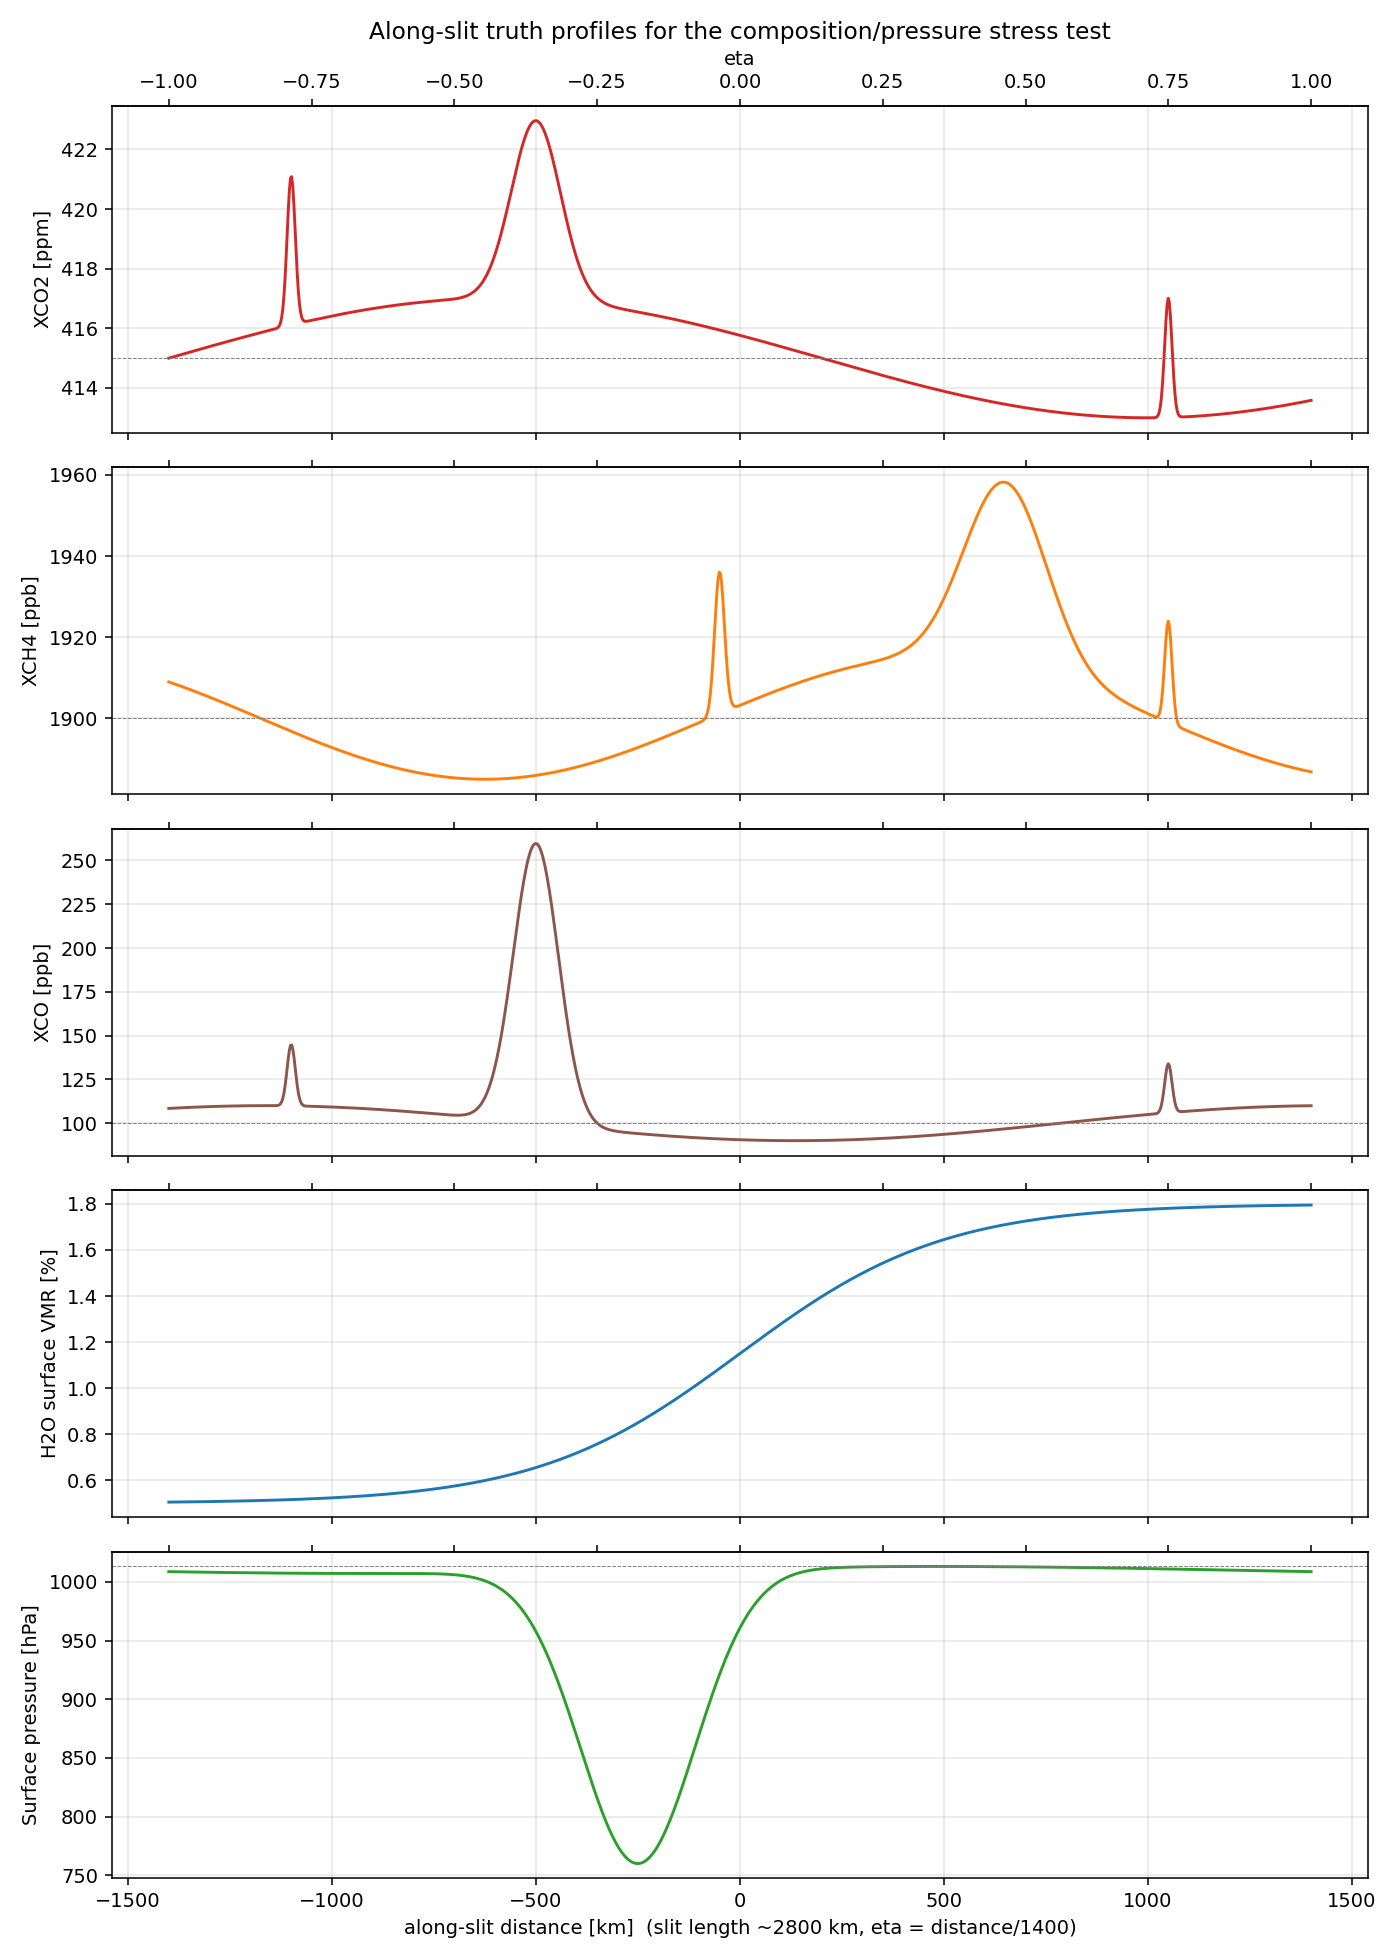
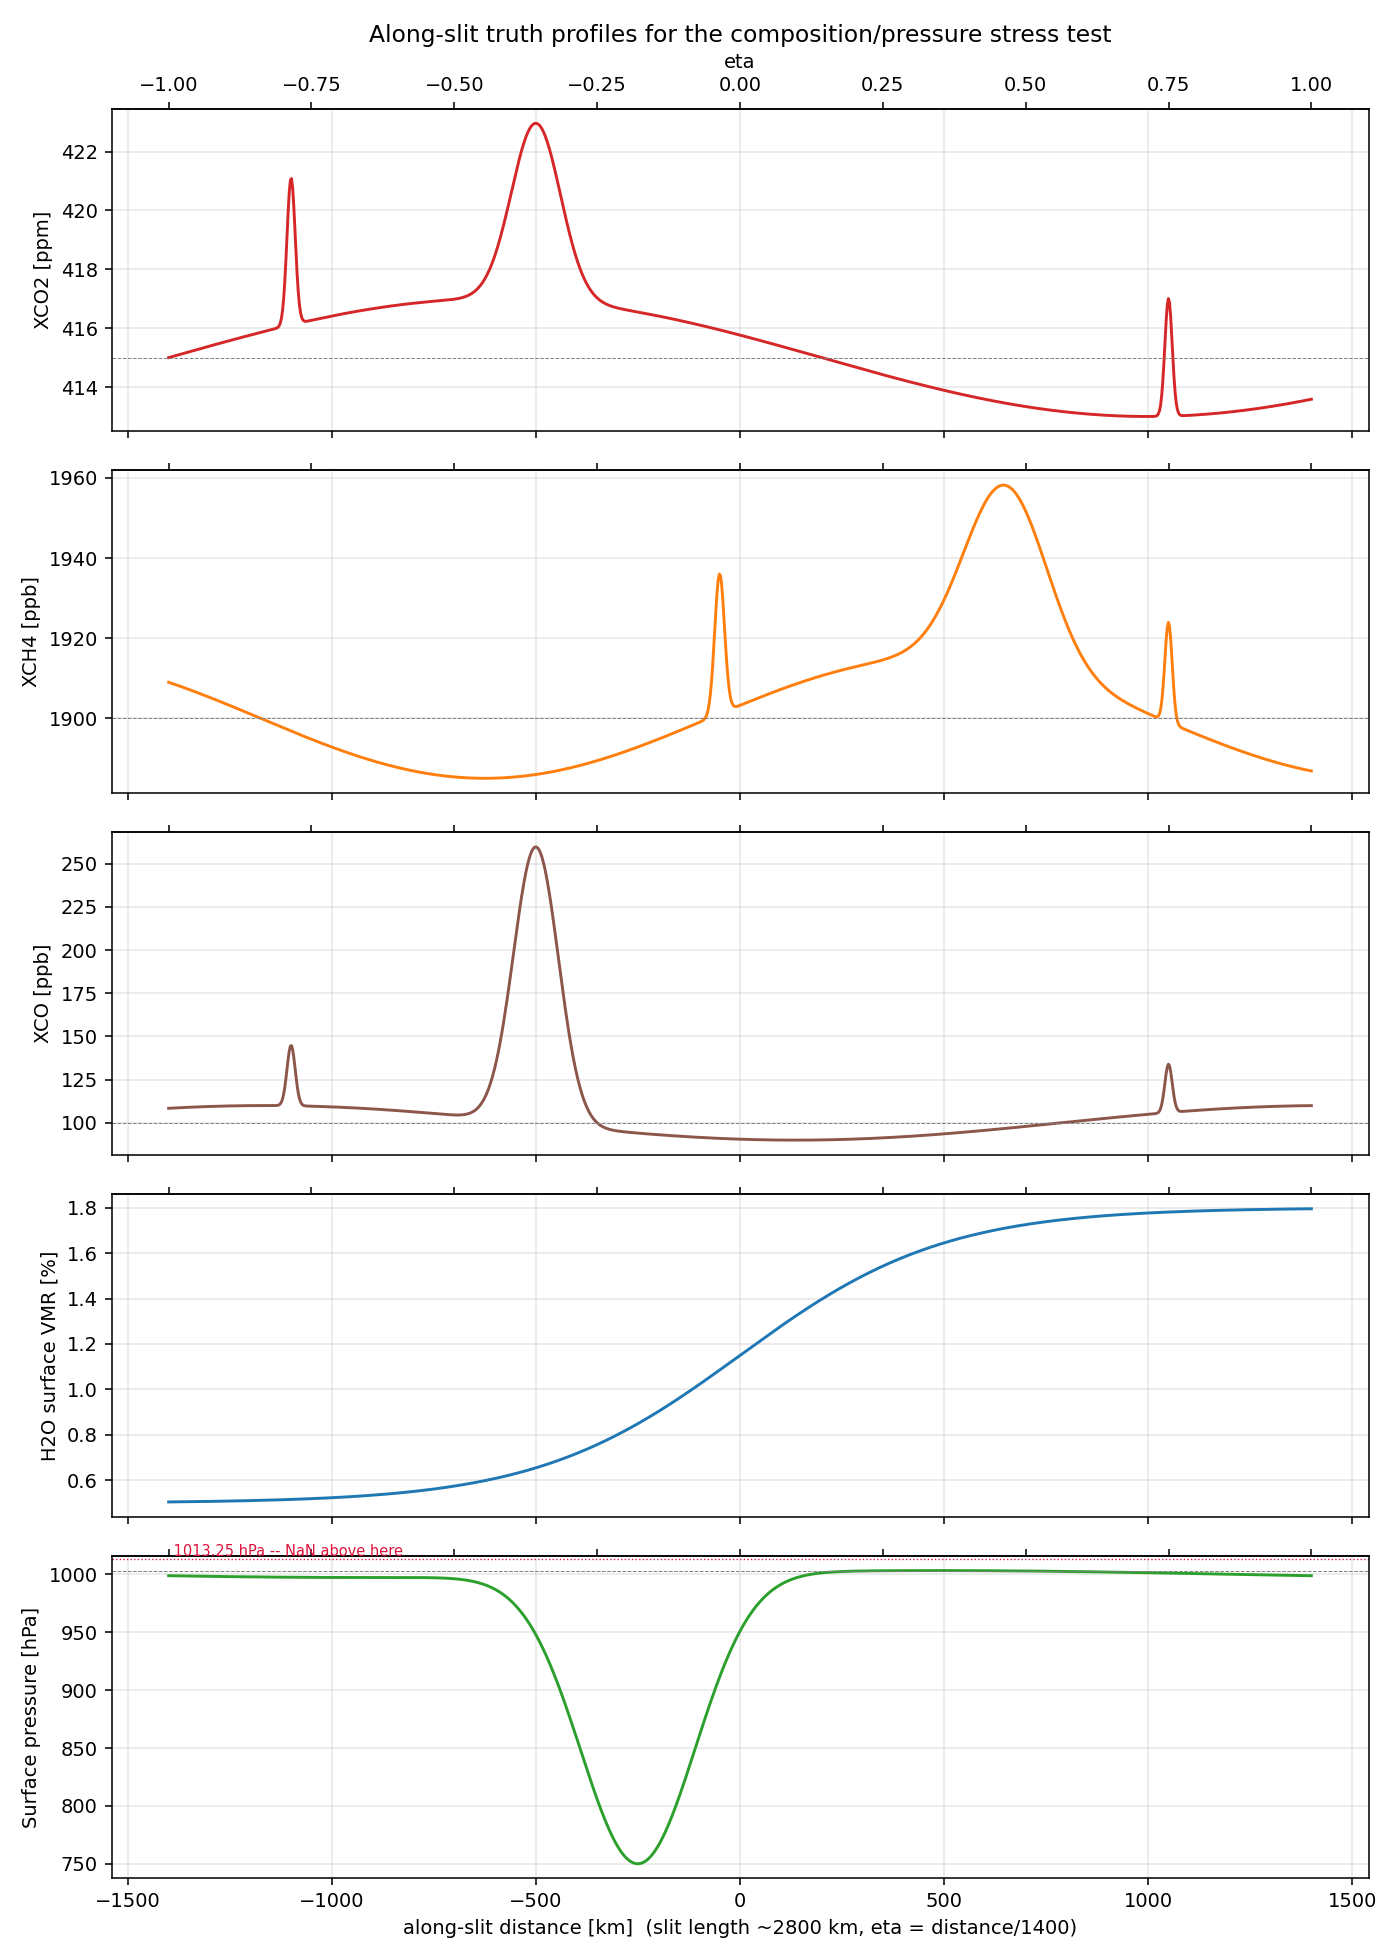
scene: hold truth p_surface 10 hPa below the standard-atmosphere ceiling
pressure_to_alt_std_atm returns NaN above sea level (1013.25 hPa). The truth
field was held 0.1 hPa under that, which kept the TRUTH valid but left a
RETRIEVED p_surface no room: with kind='scale', gauss_newton_state's
finite-difference probe alone is p*1.001 ~ +1.0 hPa, 10x the margin, so every
FPA2 window spanning the eastern rise (rows 583-844, 26% of the slit) died
with 'cannot convert float NaN to integer' in both free-co2-p sweeps.

New P_HEADROOM_HPA = 10.0 -- 10x the FD probe, and room for a genuine ~1%
excursion on top. Verified on rows 670-700, the worst previously-failing
window: now solves in 98s, and the converged solution moves p by only
+0.006 hPa, so the ceiling was never the solution's constraint, only the
probe's.

This changes the truth scene, so every results/*.pkl and the band cache
predate it. Cache regenerated; the old one is kept as
band_image_fpa2.npy.stale-pre-headroom.

diff --git a/geocarb_gert/along_slit_scene.py b/geocarb_gert/along_slit_scene.py
@@ -58,6 +58,26 @@ XCO_BG_PPB = 100.0
 H2O_BG_VMR = 1.0e-2      # surface VMR, fraction
 P_BG_HPA = 1013.25
 
+#: How far below the standard-atmosphere ceiling (`P_BG_HPA`, = sea level)
+#: the truth surface-pressure field is held. `pressure_to_alt_std_atm`
+#: returns NaN above that pressure, so this is the room a RETRIEVAL has to
+#: move surface pressure upward before the forward model goes NaN.
+#:
+#: Raised from 0.1 to 10.0 hPa (user, 2026-08-18). 0.1 hPa was enough to keep
+#: the TRUTH scene valid, which was all it had to do while p_surface was
+#: always frozen -- but it is not enough to RETRIEVE p_surface. With
+#: `kind="scale"`, `gauss_newton_state`'s finite-difference probe alone is
+#: `p * (1 + 1e-3)` ~ +1.0 hPa, an order of magnitude over that margin, so
+#: every window spanning the eastern rise (rows 583-844, 26% of FPA2's slit)
+#: died with `cannot convert float NaN to integer` in the first free-p sweep.
+#: 10 hPa is ~1% of background: 10x the FD probe, and enough room for a
+#: genuine ~1% retrieval excursion on top of it.
+#:
+#: Note the sign convention: a LARGER headroom means LOWER surface pressure,
+#: i.e. the surface sits higher in altitude, further from the sea-level floor
+#: of the standard atmosphere.
+P_HEADROOM_HPA = 10.0
+
 # Small, localized "hot spots" -- point-source-scale features, deliberately
 # narrower than the along-slit ground sample distance (~2.7 km/row for the
 # ~2800 km slit over 1024 rows) times a handful of rows, i.e. only a few
@@ -234,9 +254,13 @@ def p_surface_hpa(x_km):
     # p <= standard sea level (1013.25 hPa) -- it returns NaN above that
     # (found 2026-07-24: a symmetric +/-3 hPa sinusoid here briefly exceeded
     # 1013.25 and silently corrupted T_levels/h2o downstream). Kept
-    # asymmetric (oscillates *below* P_BG_HPA only) so the background term
-    # can never push p_surface above standard sea level, regardless of x_km.
-    background = (P_BG_HPA - 0.1) - 3.0 * (1.0 + np.sin(2 * np.pi * (x_km + 1400) / 2800 + 0.5))
+    # asymmetric (oscillates *below* the offset background only) so the
+    # background term can never push p_surface above standard sea level,
+    # regardless of x_km -- and offset by P_HEADROOM_HPA rather than hugging
+    # the ceiling, so a RETRIEVED p_surface has somewhere to go too. See
+    # P_HEADROOM_HPA for why 0.1 hPa was not enough once p_surface went free.
+    background = ((P_BG_HPA - P_HEADROOM_HPA)
+                  - 3.0 * (1.0 + np.sin(2 * np.pi * (x_km + 1400) / 2800 + 0.5)))
     mountain = _gauss(x_km, x0=-250.0, width=140.0, amp=-250.0)   # topographic depression
     return background + mountain
 

diff --git a/scripts/gd_joint_block_residual_vs_scene.py b/scripts/gd_joint_block_residual_vs_scene.py
@@ -168,16 +168,21 @@ def failed_windows(results: dict):
 
     The failure to expect with `--free ...,p_surface_hpa` is
     ``ValueError: cannot convert float NaN to integer``. Its cause:
-    `along_slit_scene.p_surface_hpa` has a background of `P_BG_HPA` = 1013.25
-    hPa, which is exactly `pressure_to_alt_std_atm`'s ceiling -- above it
-    there is no standard atmosphere and it returns NaN, which propagates
-    through `atmosphere_from_params`' `z_km` into `q_levels` and only
-    surfaces much later as an int conversion. A surface pressure retrieved as
-    `kind="scale"` therefore has ZERO headroom above background: even
-    `gauss_newton_state`'s finite-difference probe (`step=1e-3`, so
-    `p * 1.001`) crosses the ceiling wherever truth is within 0.1% of it.
-    On FPA2 that is the broad eastern rise peaking at 1013.15 hPa near row
-    700 -- and indeed the failures are exactly the windows spanning it.
+    `pressure_to_alt_std_atm` returns NaN above sea level (1013.25 hPa) --
+    there is no standard atmosphere below sea level -- and that NaN
+    propagates through `atmosphere_from_params`' `z_km` into `q_levels`,
+    surfacing much later as an int conversion. Before 2026-08-18 the truth
+    field peaked 0.1 hPa under that ceiling, so a p_surface retrieved as
+    `kind="scale"` had essentially no headroom: `gauss_newton_state`'s
+    finite-difference probe alone (`step=1e-3`, so `p * 1.001` ~ +1.0 hPa)
+    crossed it, and every FPA2 window spanning the eastern rise (rows
+    583-844, 26% of the slit) died.
+
+    Fixed at the source by `along_slit_scene.P_HEADROOM_HPA` = 10.0, so this
+    should no longer fire on a sweep run against the current scene. Kept
+    because the check is cheap, because older pickles still carry the
+    failures, and because any future state row with a hard physical bound
+    can fail the same silent way.
     """
     out = []
     for w in results.values():
@@ -267,7 +272,8 @@ def main() -> int:
     print(f"{in_path.name}: {len(results)} windows, FPA{fpa}, g_ratio={d.get('g_ratio')}, "
           f"free={free_rows}, solves={solves}")
     print(f"depression bottom at row {row_bottom} (x={x_km[row_bottom]:.0f} km, "
-          f"p={psurf[row_bottom]:.1f} hPa vs background {als.P_BG_HPA:.1f})")
+          f"p={psurf[row_bottom]:.1f} hPa); truth peaks at {psurf.max():.2f} hPa, "
+          f"{P_STD_CEILING_HPA - psurf.max():.2f} hPa of headroom under the ceiling")
 
     failed = failed_windows(results)
     if failed:

diff --git a/scripts/gd_along_slit_atm_profiles.py b/scripts/gd_along_slit_atm_profiles.py
@@ -45,7 +45,13 @@ def main() -> int:
     axes[3].set_ylabel("H2O surface VMR [%]")
 
     axes[4].plot(x_km, als.p_surface_hpa(x_km), color="tab:green")
-    axes[4].axhline(als.P_BG_HPA, color="gray", lw=0.5, ls="--")
+    # the background this field actually oscillates below -- NOT P_BG_HPA
+    # itself, which is the standard-atmosphere ceiling the field is held
+    # P_HEADROOM_HPA clear of so a retrieved p_surface has room to move.
+    axes[4].axhline(als.P_BG_HPA - als.P_HEADROOM_HPA, color="gray", lw=0.5, ls="--")
+    axes[4].axhline(als.P_BG_HPA, color="crimson", lw=0.7, ls=":")
+    axes[4].text(x_km[0], als.P_BG_HPA, f" {als.P_BG_HPA} hPa -- NaN above here",
+                 va="bottom", fontsize=7.5, color="crimson")
     axes[4].set_ylabel("Surface pressure [hPa]")
     axes[4].set_xlabel("along-slit distance [km]  (slit length ~2800 km, eta = distance/1400)")
 
